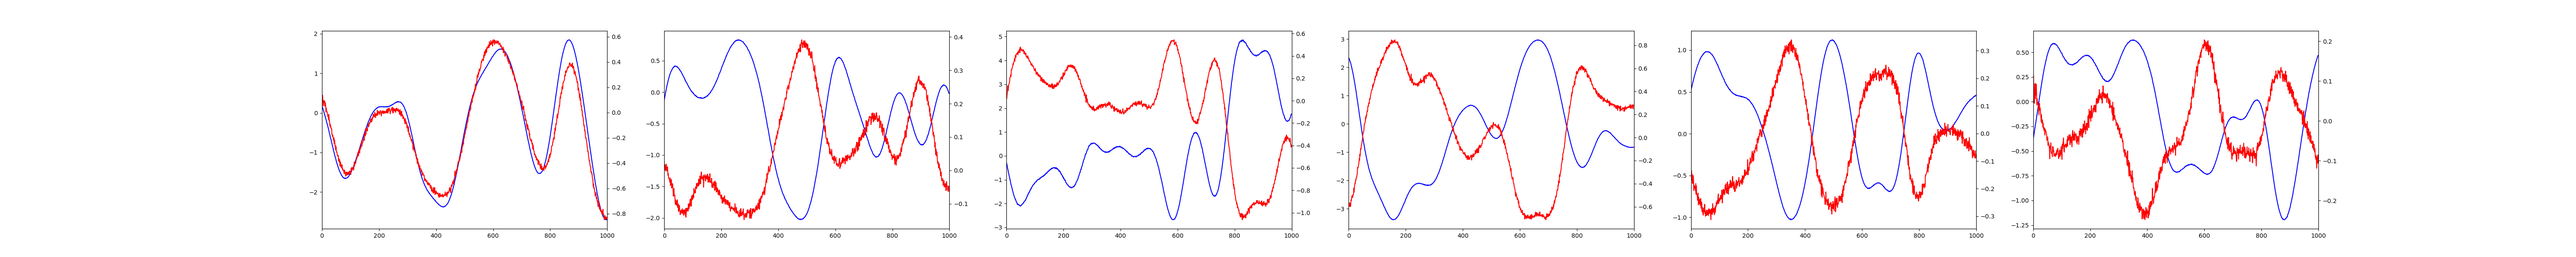
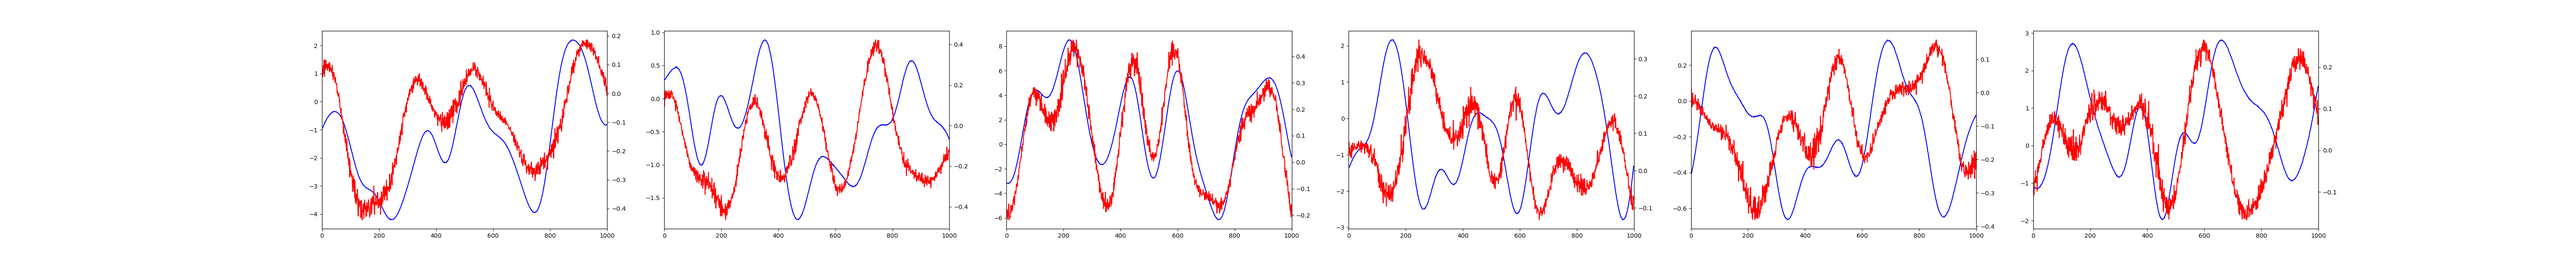
redo var scaling

diff --git a/data_generation.py b/data_generation.py
@@ -102,8 +102,18 @@ def gen_tpnica_data(key, t, N, M, L, num_samples, mu_func, kernel_func,
     )
 
     # standardize each dim independently so can add apropriate output noise
-    zv = z.var(2, keepdims=True).mean(0, keepdims=True)
-    x = z+jnp.sqrt(noise_factor*zv)*jr.normal(key, shape=z.shape)
+    def _scale_vars(x, noise_factor):
+        N = len(x)
+        denom = jnp.log(x).sum()
+        num_list = [jnp.exp(jnp.log(jnp.delete(x, i)).sum()-denom)
+                    for i in range(N)]
+        return noise_factor*N / jnp.array(num_list).sum()
+
+
+    zv = z.var(2)
+    zv_scaled = vmap(lambda _: _scale_vars(_, noise_factor), in_axes=(1,))(zv)
+    x = z+jnp.sqrt(zv_scaled.reshape((1, M, 1)))*jr.normal(key, shape=z.shape)
+    pdb.set_trace()
     Q = noise_factor*zv.squeeze()*jnp.eye(M)
     return x, z, s, tau, Q, mixer_params, k_params, dfs
 
@@ -135,8 +145,17 @@ def gen_gpnica_data(key, t, N, M, L, num_samples, mu_func, kernel_func,
     )
 
     # standardize each dim independently so can add apropriate output noise
-    zv = z.var(2, keepdims=True).mean(0, keepdims=True)
-    x = z+jnp.sqrt(noise_factor*zv)*jr.normal(key, shape=z.shape)
+    def _scale_vars(x, noise_factor):
+        N = len(x)
+        denom = jnp.log(x).sum()
+        num_list = [jnp.exp(jnp.log(jnp.delete(x, i)).sum()-denom)
+                    for i in range(N)]
+        return noise_factor*N / jnp.array(num_list).sum()
+
+
+    zv = z.var(2)
+    zv_scaled = vmap(lambda _: _scale_vars(_, noise_factor), in_axes=(1,))(zv)
+    x = z+jnp.sqrt(zv_scaled.reshape((1, M, 1)))*jr.normal(key, shape=z.shape)
     Q = noise_factor*zv.squeeze()*jnp.eye(M)
     return x, z, s, Q, mixer_params, k_params
 
